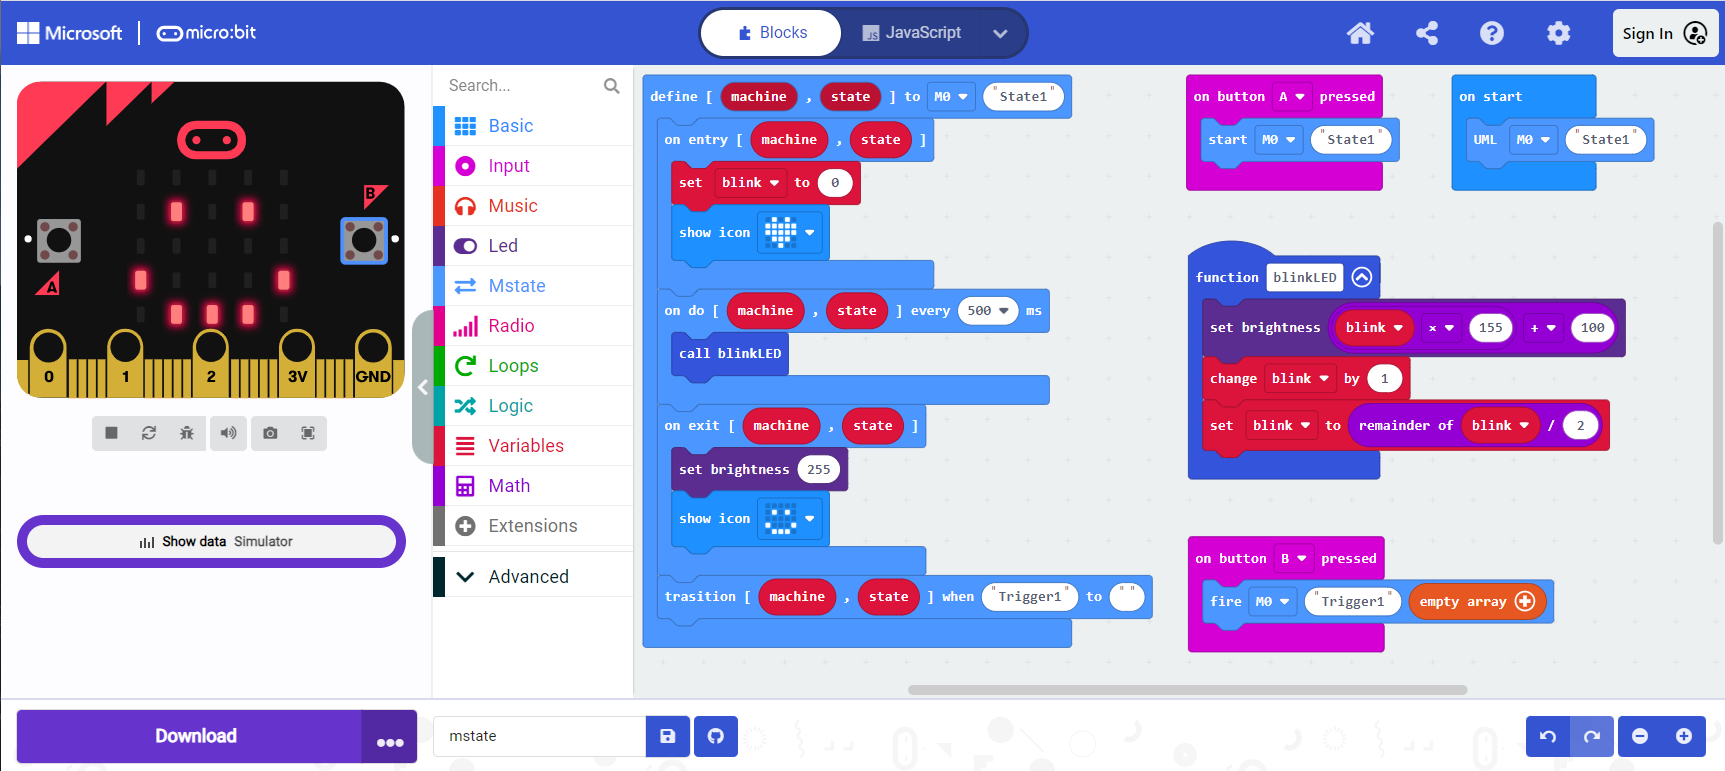
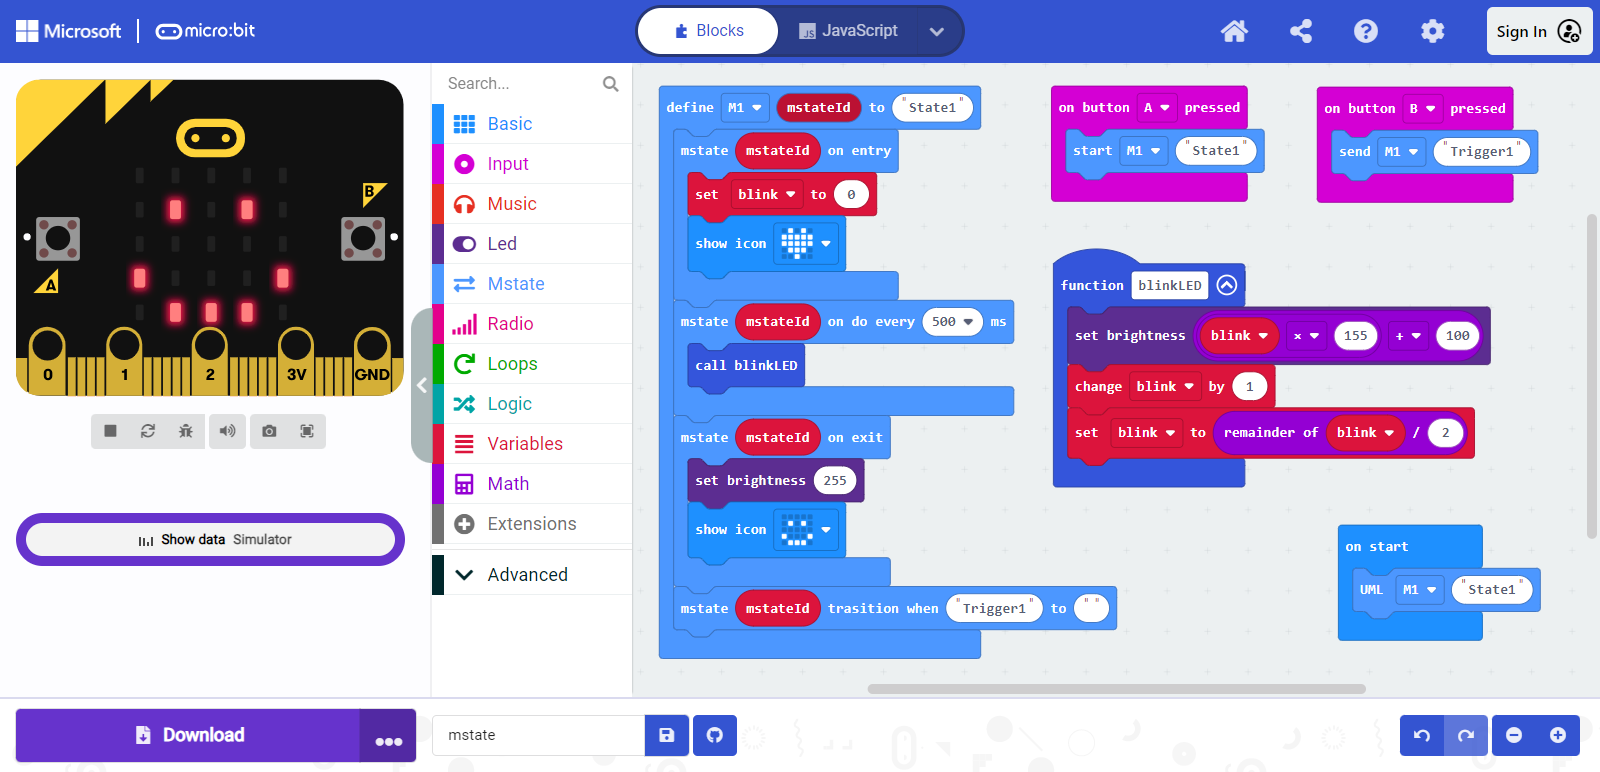
M1

diff --git a/test.ts b/test.ts
@@ -15,7 +15,7 @@ function blinkLED () {
 // entry/
 // - Initialize On/Blink
 // - LED Heart
-mstate.defineState(StateMachines.M0, "On", function (mstateId) {
+mstate.defineState(StateMachines.M1, "On", function (mstateId) {
     mstate.descriptionsUml(["auto=OFF", "Heart icon"])
     mstate.declareEntry(mstateId, function () {
         auto = 0
@@ -36,7 +36,7 @@ mstate.defineState(StateMachines.M0, "On", function (mstateId) {
 // State Off
 // entry/
 // - LED off
-mstate.defineState(StateMachines.M0, "Off", function (mstateId) {
+mstate.defineState(StateMachines.M1, "Off", function (mstateId) {
     mstate.descriptionUml("LED off")
     mstate.declareEntry(mstateId, function () {
         basic.clearScreen()
@@ -48,13 +48,13 @@ mstate.defineState(StateMachines.M0, "Off", function (mstateId) {
     mstate.declareSimpleTransition(mstateId, "A", "On")
 })
 input.onButtonPressed(Button.A, function () {
-    mstate.send(StateMachines.M0, "A")
+    mstate.send(StateMachines.M1, "A")
 })
 input.onButtonPressed(Button.AB, function () {
-    mstate.send(StateMachines.M0, "A+B")
+    mstate.send(StateMachines.M1, "A+B")
 })
 input.onButtonPressed(Button.B, function () {
-    mstate.send(StateMachines.M0, "B")
+    mstate.send(StateMachines.M1, "B")
 })
 // State Slow
 // entry/
@@ -62,7 +62,7 @@ input.onButtonPressed(Button.B, function () {
 // do/ (500ms)
 // - LED blink
 // [Auto Mode] 6times
-mstate.defineState(StateMachines.M0, "Slow", function (mstateId) {
+mstate.defineState(StateMachines.M1, "Slow", function (mstateId) {
     mstate.declareEntry(mstateId, function () {
         blinkCount = 0
     })
@@ -96,7 +96,7 @@ mstate.defineState(StateMachines.M0, "Slow", function (mstateId) {
 // do/ (200ms)
 // - LED blink
 // [Auto Mode] 15times
-mstate.defineState(StateMachines.M0, "Fast", function (mstateId) {
+mstate.defineState(StateMachines.M1, "Fast", function (mstateId) {
     mstate.declareEntry(mstateId, function () {
         blinkCount = 0
     })
@@ -124,5 +124,5 @@ mstate.defineState(StateMachines.M0, "Fast", function (mstateId) {
 let blinkCount = 0
 let auto = 0
 let blinkNext = 0
-mstate.start(StateMachines.M0, "Off")
-mstate.exportUml(StateMachines.M0, "Off")
+mstate.start(StateMachines.M1, "Off")
+mstate.exportUml(StateMachines.M1, "Off")

diff --git a/mstate.ts b/mstate.ts
@@ -1,6 +1,5 @@
 enum StateMachines {
-    M0 = 1,
-    M1,
+    M1 = 1,
     M2,
     M3,
     M4,
@@ -68,7 +67,7 @@ namespace mstate {
      * @param ms Event loop interval (default: 100ms)
      */
     //% block="settings $aStateMachine event ID: $eventId every: $ms ms"
-    //% aStateMachine.defl=StateMachines.M0
+    //% aStateMachine.defl=StateMachines.M1
     //% eventId.defl=32768
     //% ms.shadow="timePicker"
     //% ms.defl=100
@@ -91,7 +90,7 @@ namespace mstate {
      * @param body code to run, (mstateId: machine-state ID)
      */
     //% block="define $aStateMachine $mstateId to $aStateName"
-    //% aStateMachine.defl=StateMachines.M0
+    //% aStateMachine.defl=StateMachines.M1
     //% aStateName.defl="a"
     //% draggableParameters="reporter"
     //% weight=180
@@ -311,7 +310,7 @@ namespace mstate {
      * @param aTriggerName trigger name
      */
     //% block="send $aStateMachine $aTriggerName"
-    //% aStateMachine.defl=StateMachines.M0
+    //% aStateMachine.defl=StateMachines.M1
     //% aTriggerName.defl="e"
     //% weight=95
     //% group="Command"
@@ -326,7 +325,7 @@ namespace mstate {
      * @param aTriggerArgs args
      */
     //% block="send $aStateMachine $aTriggerName $aTriggerArgs"
-    //% aStateMachine.defl=StateMachines.M0
+    //% aStateMachine.defl=StateMachines.M1
     //% aTriggerName.defl="e"
     //% weight=90
     //% group="Command"
@@ -343,7 +342,7 @@ namespace mstate {
      * @param aStateName default state name
      */
     //% block="start $aStateMachine $aStateName"
-    //% aStateMachine.defl=StateMachines.M0
+    //% aStateMachine.defl=StateMachines.M1
     //% aStateName.defl="a"
     //% weight=80
     //% group="Command"

diff --git a/mstateuml.ts b/mstateuml.ts
@@ -7,7 +7,7 @@ namespace mstate {
      * @param aStateName default state
      */
     //% block="UML $aStateMachine $aStateName"
-    //% aStateMachine.defl=StateMachines.M0
+    //% aStateMachine.defl=StateMachines.M1
     //% aStateName.defl="a"
     //% weight=70
     //% group="Command"

diff --git a/README.md b/README.md
@@ -43,7 +43,7 @@ function blinkLED () {
     blink += 1
     blink = blink % 2
 }
-mstate.defineState(StateMachines.M0, "State1", function (machine, state) {
+mstate.defineState(StateMachines.M1, "State1", function (machine, state) {
     mstate.declareEntry(machine, state, function () {
         blink = 0
         basic.showIcon(IconNames.Heart)
@@ -58,13 +58,13 @@ mstate.defineState(StateMachines.M0, "State1", function (machine, state) {
     mstate.declareSimpleTransition(machine, state, "Trigger1", "")
 })
 input.onButtonPressed(Button.A, function () {
-    mstate.start(StateMachines.M0, "State1")
+    mstate.start(StateMachines.M1, "State1")
 })
 input.onButtonPressed(Button.B, function () {
-    mstate.fire(StateMachines.M0, "Trigger1", [])
+    mstate.send(StateMachines.M1, "Trigger1")
 })
 let blink = 0
-mstate.exportUml(StateMachines.M0, "State1")
+mstate.exportUml(StateMachines.M1, "State1")
 
 ```
 
